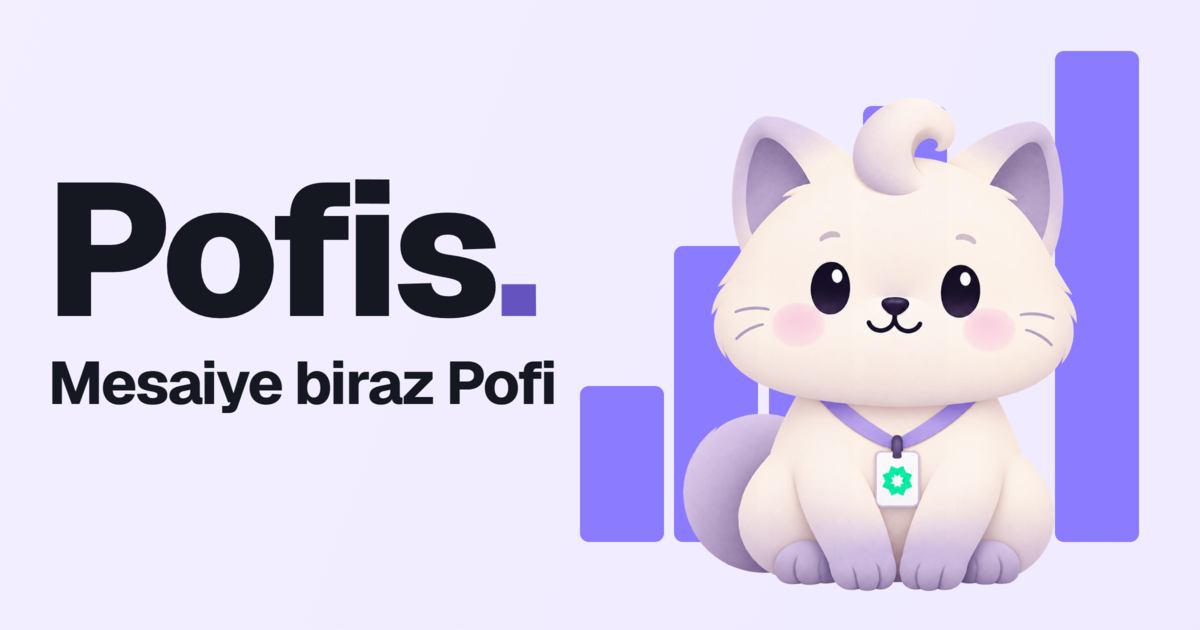
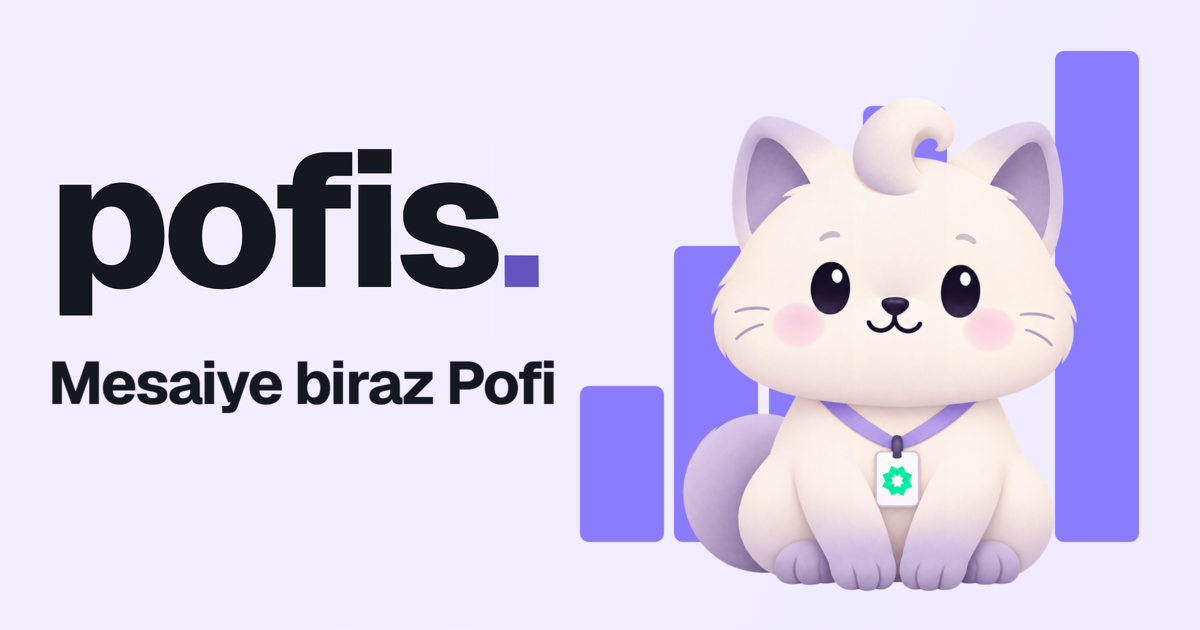
Refine the landing page branding and improve accessibility
Present the tagline as the main heading, update the install command and layout, and make copy feedback and theme controls more accessible.

Changed region(s): [[0.0617, 0.2413, 0.4625, 0.5127], [0.0617, 0.2714, 0.0925, 0.3016]]

diff --git a/src/components/install-card.tsx b/src/components/install-card.tsx
@@ -1,6 +1,6 @@
 "use client";
 
-import { useRef, useState, type KeyboardEvent } from "react";
+import { useEffect, useRef, useState, type KeyboardEvent } from "react";
 import { Copy, Check } from "lucide-react";
 import { content } from "@/content";
 
@@ -12,8 +12,17 @@ export function InstallCard() {
   const [copyFailed, setCopyFailed] = useState(false);
   const tabs = useRef<(HTMLButtonElement | null)[]>([]);
   const platform = platforms[active];
+  const copyRequest = useRef(0);
+  const copyTimer = useRef<ReturnType<typeof setTimeout> | null>(null);
+
+  useEffect(() => () => {
+    copyRequest.current += 1;
+    if (copyTimer.current !== null) clearTimeout(copyTimer.current);
+  }, []);
 
   function select(index: number) {
+    copyRequest.current += 1;
+    if (copyTimer.current !== null) clearTimeout(copyTimer.current);
     setActive(index);
     setCopied(false);
     setCopyFailed(false);
@@ -32,23 +41,35 @@ export function InstallCard() {
   }
 
   async function handleCopy() {
+    const request = ++copyRequest.current;
+    if (copyTimer.current !== null) clearTimeout(copyTimer.current);
+    setCopied(false);
     setCopyFailed(false);
+    let success = false;
     try {
       await navigator.clipboard.writeText(platform.command);
-      setCopied(true);
+      success = true;
     } catch {
+      if (request !== copyRequest.current) return;
+      const previousFocus = document.activeElement;
       const textArea = document.createElement("textarea");
       textArea.value = platform.command;
+      textArea.className = "sr-only";
       document.body.appendChild(textArea);
       textArea.select();
-      let success = false;
       try { success = document.execCommand("copy"); }
       catch { /* Tarayıcı kopyalamayı engellerse elle seçim mesajı gösterilir. */ }
-      finally { document.body.removeChild(textArea); }
-      setCopied(success);
-      setCopyFailed(!success);
+      finally {
+        document.body.removeChild(textArea);
+        if (previousFocus instanceof HTMLElement) previousFocus.focus();
+      }
     }
-    setTimeout(() => setCopied(false), 1600);
+    if (request !== copyRequest.current) return;
+    setCopied(success);
+    setCopyFailed(!success);
+    if (success) {
+      copyTimer.current = setTimeout(() => setCopied(false), 1600);
+    }
   }
 
   return (
@@ -80,7 +101,9 @@ export function InstallCard() {
       </div>
       ))}
       </div>
-      {copyFailed && <p className="hint-text" role="status">{content.install.copyErrorMessage}</p>}
+      <p className={copyFailed ? "hint-text" : "sr-only"} role="status" aria-atomic="true">
+        {copyFailed ? content.install.copyErrorMessage : copied ? content.install.copySuccessMessage : ""}
+      </p>
     </section>
   );
 }

diff --git a/src/app/globals.css b/src/app/globals.css
@@ -144,8 +144,8 @@ button {
 }
 
 .pofi-image-wrap {
-  display: inline-block;
-  margin-bottom: 24px;
+  display: block;
+  margin-bottom: 16px;
 }
 
 .pofi-img {
@@ -159,18 +159,11 @@ button {
 }
 
 .brand-title {
-  font-size: 32px;
-  font-weight: 650;
-  letter-spacing: -0.8px;
-  line-height: 1.2;
+  font-size: 24px;
+  font-weight: 550;
+  letter-spacing: -0.4px;
+  line-height: 1.3;
   color: var(--ink);
-}
-
-.brand-slogan {
-  font-size: 15px;
-  color: var(--muted);
-  margin-top: 6px;
-  letter-spacing: -0.1px;
 }
 
 /* Install box */
@@ -202,7 +195,7 @@ button {
   flex: 1;
   min-width: 0;
   font-family: var(--font-geist-mono), ui-monospace, SFMono-Regular, Menlo, Monaco, Consolas, monospace;
-  font-size: 13.5px;
+  font-size: 14px;
   line-height: 1.5;
   color: var(--accent-text);
   white-space: pre-wrap;
@@ -221,8 +214,8 @@ button {
   display: inline-flex;
   align-items: center;
   justify-content: center;
-  width: 36px;
-  height: 36px;
+  width: 44px;
+  height: 44px;
   border: 1px solid var(--line);
   border-radius: var(--radius-control);
   background: var(--surface-subtle);
@@ -275,8 +268,8 @@ button {
   display: inline-flex;
   align-items: center;
   justify-content: center;
-  width: 32px;
-  height: 32px;
+  width: 44px;
+  height: 44px;
   border: 0;
   border-radius: var(--radius-control);
   background: transparent;
@@ -300,10 +293,12 @@ button {
 .app-footer {
   width: 100%;
   display: flex;
+  flex-wrap: wrap;
+  gap: 8px 16px;
   align-items: center;
   justify-content: space-between;
   padding-top: 16px;
-  font-size: 11px;
+  font-size: 12px;
   line-height: 1.4;
   color: var(--muted);
   user-select: none;
@@ -347,17 +342,17 @@ button {
     padding: 20px 0;
   }
   .brand-title {
-    font-size: 26px;
+    font-size: 22px;
   }
   .pofi-img {
     width: 96px;
     height: 125px;
   }
   .install-cmd {
-    font-size: 12px;
+    font-size: 13px;
   }
   .app-footer {
-    font-size: 10.5px;
+    font-size: 12px;
     padding-top: 12px;
   }
 }
@@ -384,3 +379,15 @@ button {
 
 .install-panels { display: grid; margin-top: 16px; }
 .install-card[aria-hidden="false"] { visibility: visible; }
+
+.sr-only {
+  position: absolute;
+  width: 1px;
+  height: 1px;
+  padding: 0;
+  margin: -1px;
+  overflow: hidden;
+  clip-path: inset(50%);
+  white-space: nowrap;
+  border: 0;
+}

diff --git a/src/components/theme-toggle.tsx b/src/components/theme-toggle.tsx
@@ -17,17 +17,27 @@ export function ThemeToggle() {
       // Storage unavailable
     }
 
+    const media = window.matchMedia("(prefers-color-scheme: dark)");
     if (saved === "light" || saved === "dark") {
-      setTheme(saved);
       document.documentElement.dataset.theme = saved;
-    } else {
-      const prefersDark = window.matchMedia("(prefers-color-scheme: dark)").matches;
-      setTheme(prefersDark ? "dark" : "light");
     }
+
+    function syncTheme() {
+      const explicit = document.documentElement.dataset.theme;
+      setTheme(explicit === "light" || explicit === "dark"
+        ? explicit
+        : media.matches ? "dark" : "light");
+    }
+
+    syncTheme();
+    media.addEventListener("change", syncTheme);
+    return () => media.removeEventListener("change", syncTheme);
   }, []);
 
   function toggle() {
-    const next = theme === "dark" ? "light" : "dark";
+    const current = document.documentElement.dataset.theme
+      ?? (window.matchMedia("(prefers-color-scheme: dark)").matches ? "dark" : "light");
+    const next = current === "dark" ? "light" : "dark";
     setTheme(next);
     document.documentElement.dataset.theme = next;
     try {
@@ -41,7 +51,7 @@ export function ThemeToggle() {
     <button
       type="button"
       className="theme-toggle-btn"
-      aria-label={content.theme.toggleAriaLabel}
+      aria-label={theme === "dark" ? content.theme.switchToLight : content.theme.switchToDark}
       onClick={toggle}
     >
       {theme === "dark" ? (

diff --git a/src/content.ts b/src/content.ts
@@ -1,6 +1,6 @@
 export const content = {
   meta: {
-    title: "Pofis — Mesaiye biraz Pofi.",
+    title: "Pofis — Mesaiye biraz Pofi",
     description: "Kişisel mesai takibi. Mesaiye biraz Pofi.",
     url: "https://pofis.app",
     locale: "tr_TR",
@@ -17,11 +17,11 @@ export const content = {
   brand: {
     name: "Pofis",
     wordmark: "pofis",
-    tagline: "Mesaiye biraz Pofi.",
+    tagline: "Mesaiye biraz Pofi",
   },
   install: {
     platforms: [
-      { id: "macos", label: "macOS", command: "pofis=$(curl -fsSL https://pofis.app/install.sh) && /bin/bash -c \"$pofis\" --" },
+      { id: "macos", label: "macOS", command: "curl -fsSL https://pofis.app/install.sh | bash" },
       { id: "windows", label: "Windows PowerShell", command: "irm https://pofis.app/install.ps1 | iex" },
     ],
     copySuccessMessage: "Kopyalandı",
@@ -35,7 +35,8 @@ export const content = {
     creditUrl: "https://mertcreates.com",
   },
   theme: {
-    toggleAriaLabel: "Tema değiştir",
+    switchToLight: "Açık temaya geç",
+    switchToDark: "Koyu temaya geç",
   },
 } as const;
 

diff --git a/src/app/page.tsx b/src/app/page.tsx
@@ -39,8 +39,7 @@ export default async function LandingPage() {
             />
           </div>
 
-          <h1 className="brand-title">{content.brand.name}</h1>
-          <p className="brand-slogan">{content.brand.tagline}</p>
+          <h1 className="brand-title">{content.brand.tagline}</h1>
 
           <InstallCard />
         </div>
